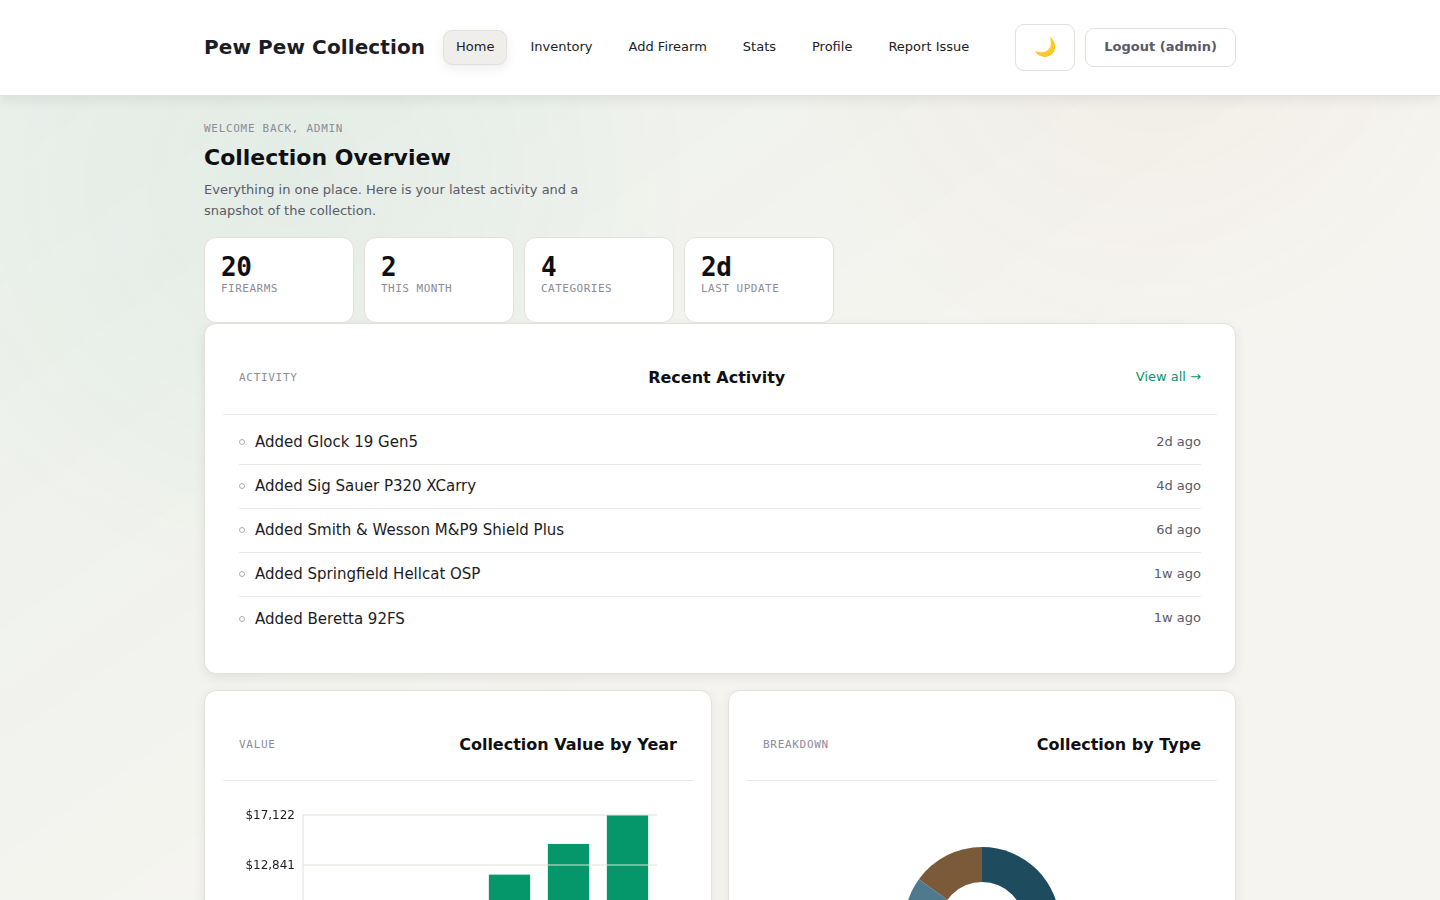
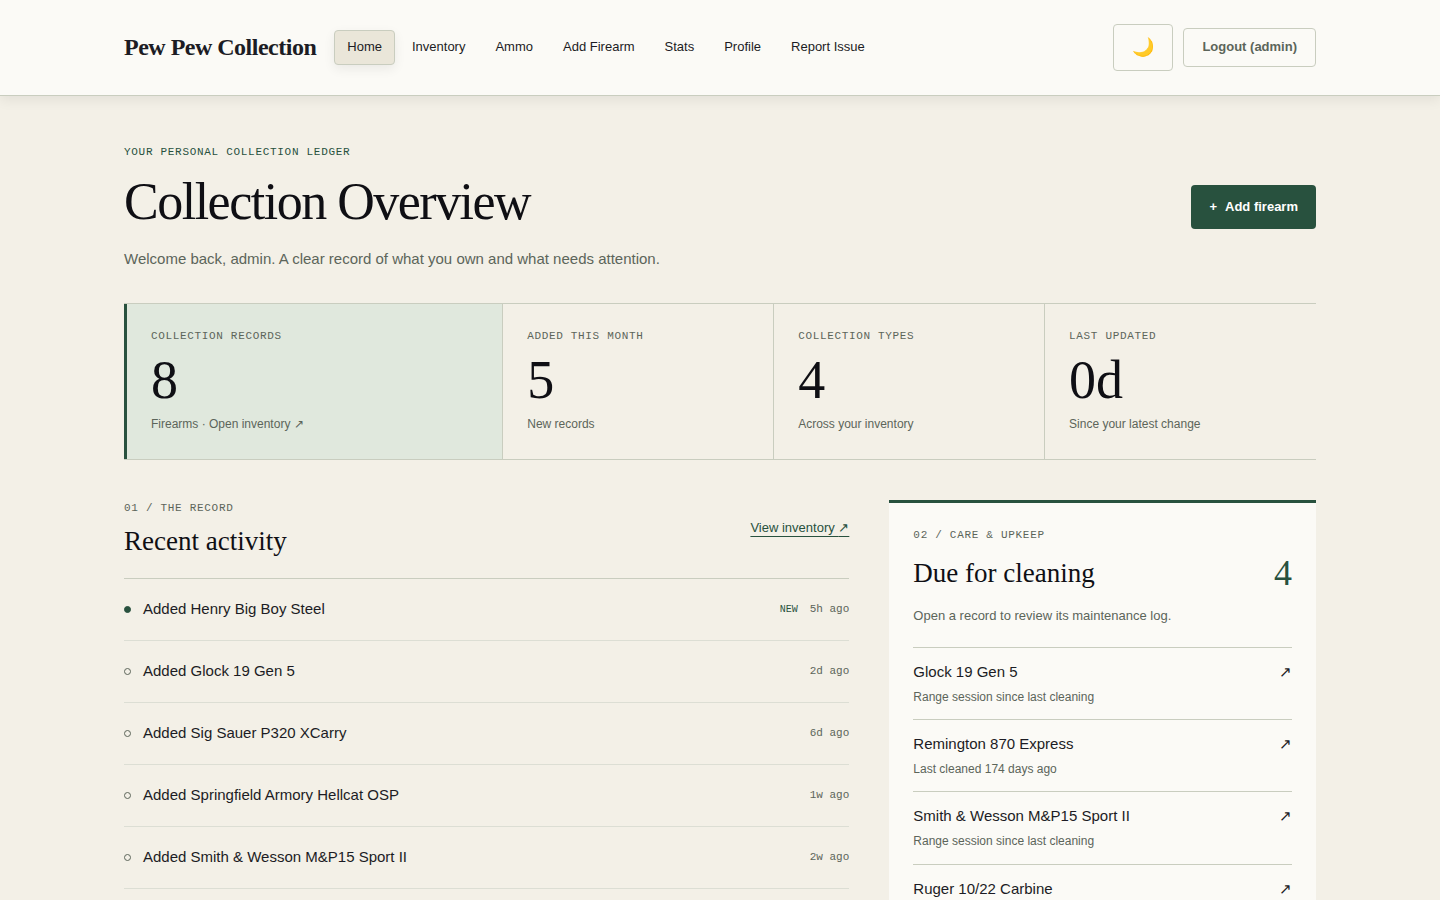
docs(dashboard): replace dashboard screenshots with the ledger design
Capture the collection ledger dashboard in dark (1360px @2x) and light
(1440x900) mode from a seeded sample collection, drop the "previous
design" labels from the README and site gallery, refresh the wiki
caption, and record the browser widths checked in the design notes.

Claude-Session: https://claude.ai/code/session_01Tf8gQ5PQWedQK1GVjoPSUf

diff --git a/docs/index.html b/docs/index.html
@@ -847,12 +847,12 @@
           <span class="screenshot-label">→ PROFILE — Account, display preferences, and password management.</span>
         </div>
         <div class="screenshot-item">
-          <img src="screenshots/dashboard.png" alt="Pew Pew Collection dashboard — collection value chart, type breakdown, and recent activity feed" loading="lazy" decoding="async" width="2720" height="3256" />
-          <span class="screenshot-label">→ PREVIOUS DASHBOARD — The new ledger adds linked activity, cleaning reminders, and exact type counts.</span>
+          <img src="screenshots/dashboard.png" alt="Pew Pew Collection collection ledger dashboard — collection summary, linked recent activity, due-for-cleaning list, cumulative purchase value chart, and type counts" loading="lazy" decoding="async" width="2720" height="3270" />
+          <span class="screenshot-label">→ DASHBOARD — Collection ledger with linked activity, cleaning reminders, and exact type counts.</span>
         </div>
         <div class="screenshot-item">
-          <img src="screenshots/dashboard-light.png" alt="Pew Pew Collection dashboard in light mode — same collection value chart and type breakdown in a lighter palette" loading="lazy" decoding="async" width="1440" height="900" />
-          <span class="screenshot-label">→ PREVIOUS LIGHT MODE — Updated dashboard screenshots are pending visual review.</span>
+          <img src="screenshots/dashboard-light.png" alt="Pew Pew Collection collection ledger dashboard in light mode — the same summary, activity, and cleaning reminders on a warm paper palette" loading="lazy" decoding="async" width="1440" height="900" />
+          <span class="screenshot-label">→ LIGHT MODE — Same ledger, warm paper palette.</span>
         </div>
         <div class="screenshot-item">
           <img src="screenshots/stats.png" alt="Pew Pew Collection analytics page — collection breakdown by type, caliber, make, and condition" loading="lazy" decoding="async" width="1440" height="900" />

diff --git a/docs/design/collection-ledger.md b/docs/design/collection-ledger.md
@@ -51,6 +51,6 @@ The first implementation retained the old type doughnut chart. It felt less like
 
 ESLint and `git diff --check` pass. The selected dashboard text tokens meet at least 4.84:1 contrast in light mode and 5.78:1 in dark mode against the dashboard surfaces. These are calculated token checks, not a browser accessibility audit. Rendering tests cover empty states, record links, capped reminders, exact values, and escaping untrusted record text. Full test results are recorded in the pull request.
 
-Browser verification is pending. This environment blocked both local HTTP preview access and local file navigation. No screenshots of the new design have been captured. Existing gallery images show the previous interface.
+The dashboard was rendered in headless Chromium with a populated sample collection at 1440px, 1360px, 768px, 390px, and 320px in both themes. No width produced horizontal page scroll, and the mobile summary keeps its column divider. `docs/screenshots/dashboard.png` (dark, 1360px at 2x) and `dashboard-light.png` (light, 1440 × 900) now show the new design.
 
-Before merging, inspect 1440px, 768px, 390px, and 320px widths in both themes. Check long usernames and model names, keyboard focus, chart resize, theme switching, reduced motion, empty states, and form error feedback. Check the shared header, inventory, ammo, profile, and setup/login pages too. Replace `docs/screenshots/dashboard.png` and `dashboard-light.png` after visual approval.
+Still to check before merging: long usernames and model names, keyboard focus, theme switching in place, live chart resizing, the empty-collection state in a browser, and form error feedback. Check the shared header, inventory, ammo, profile, and setup/login pages too.

diff --git a/README.md b/README.md
@@ -5,10 +5,7 @@ collection locally with no cloud dependency. Node.js / Express + SQLite, no
 build step, one Docker command to run.
 
 
-![Previous dashboard design](docs/screenshots/dashboard.png)
-
-The screenshot above shows the previous dashboard design. See the
-[collection ledger design notes](docs/design/collection-ledger.md) for the new layout and review status.
+![Collection ledger dashboard](docs/screenshots/dashboard.png)
 
 ## What it does
 

diff --git a/wiki/Screenshots.md b/wiki/Screenshots.md
@@ -7,7 +7,8 @@ here via `raw.githubusercontent.com` so they render in the wiki.
 
 ![Dashboard](https://raw.githubusercontent.com/Gogorichielab/PPCollection/main/docs/screenshots/dashboard.png)
 
-Recent activity feed, type breakdown chart, and purchase-value-by-year chart.
+Collection summary, linked recent activity, due-for-cleaning list, cumulative
+purchase-value chart, and exact type counts.
 
 ## Inventory
 
